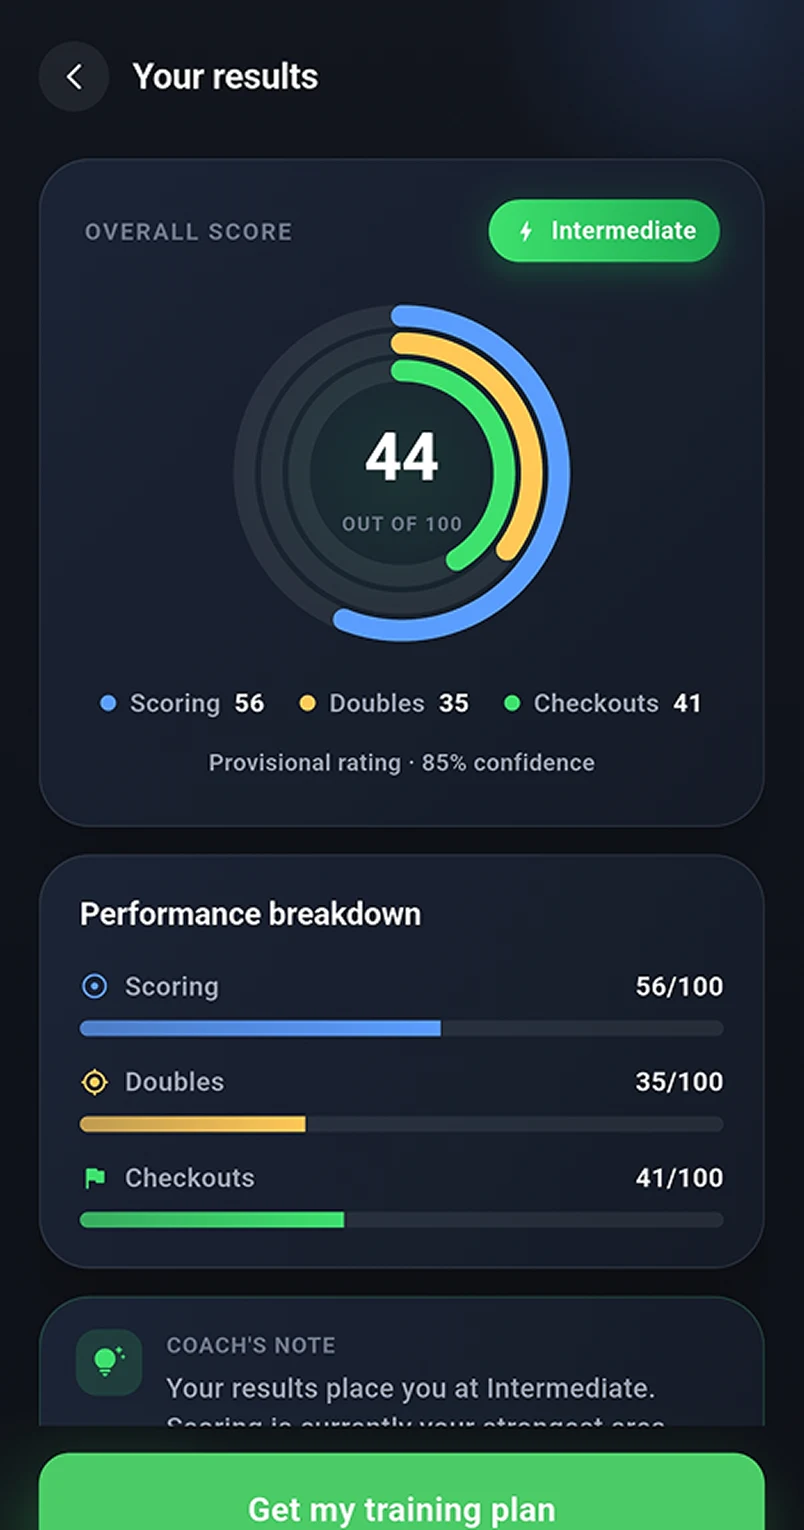
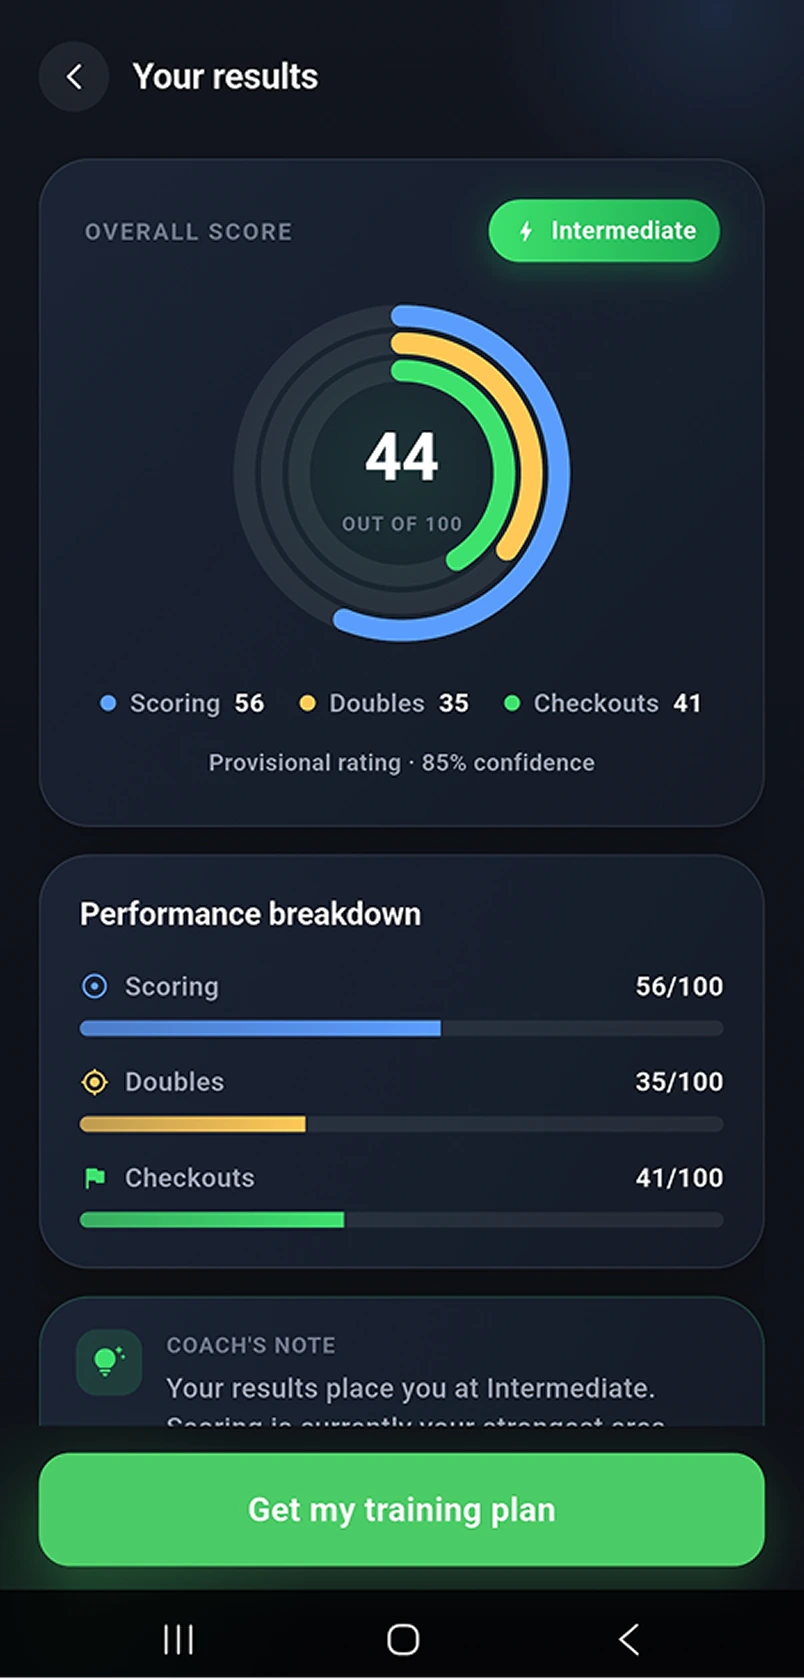
fix: align homepage device mockups

diff --git a/index.html b/index.html
@@ -221,8 +221,8 @@
           </div>
 
           <div class="device-visual">
-            <div class="device-phone device-phone-assessment" aria-label="Vey assessment results preview">
-              <div class="device-screen device-screen-tall">
+            <div class="phone-mockup showcase-mockup" aria-label="Vey assessment results preview">
+              <div class="phone-screen">
                 <img
                   src="assets/vey-assessment.webp"
                   alt="Vey assessment screen showing an overall score, performance breakdown and recommended training level"
@@ -273,8 +273,8 @@
           </div>
 
           <div class="device-visual">
-            <div class="device-phone" aria-label="Vey Coach Review preview">
-              <div class="device-screen device-screen-tall">
+            <div class="phone-mockup showcase-mockup" aria-label="Vey Coach Review preview">
+              <div class="phone-screen">
                 <img
                   src="assets/vey-coach-review.webp"
                   alt="Vey post-session Coach Review showing a personal best and recent performance insight"
@@ -325,8 +325,8 @@
           </div>
 
           <div class="device-visual">
-            <div class="device-phone" aria-label="Vey progress screen preview">
-              <div class="device-screen device-screen-tall">
+            <div class="phone-mockup showcase-mockup" aria-label="Vey progress screen preview">
+              <div class="phone-screen">
                 <img
                   src="assets/vey-progress.webp"
                   alt="Vey progress screen showing key indicators, skill breakdown and exercise analytics"

diff --git a/styles.css b/styles.css
@@ -1918,3 +1918,31 @@ a {
     height: 570px;
   }
 }
+
+
+/* Consistent homepage device mockups */
+.showcase-mockup {
+  width: min(100%, 350px);
+  padding: 8px;
+  border-radius: 44px;
+  transform: none;
+}
+
+.showcase-mockup:hover {
+  transform: none;
+}
+
+.showcase-mockup .phone-screen {
+  border-radius: 36px;
+}
+
+@media (max-width: 600px) {
+  .showcase-mockup {
+    width: min(90vw, 330px);
+    border-radius: 38px;
+  }
+
+  .showcase-mockup .phone-screen {
+    border-radius: 31px;
+  }
+}
